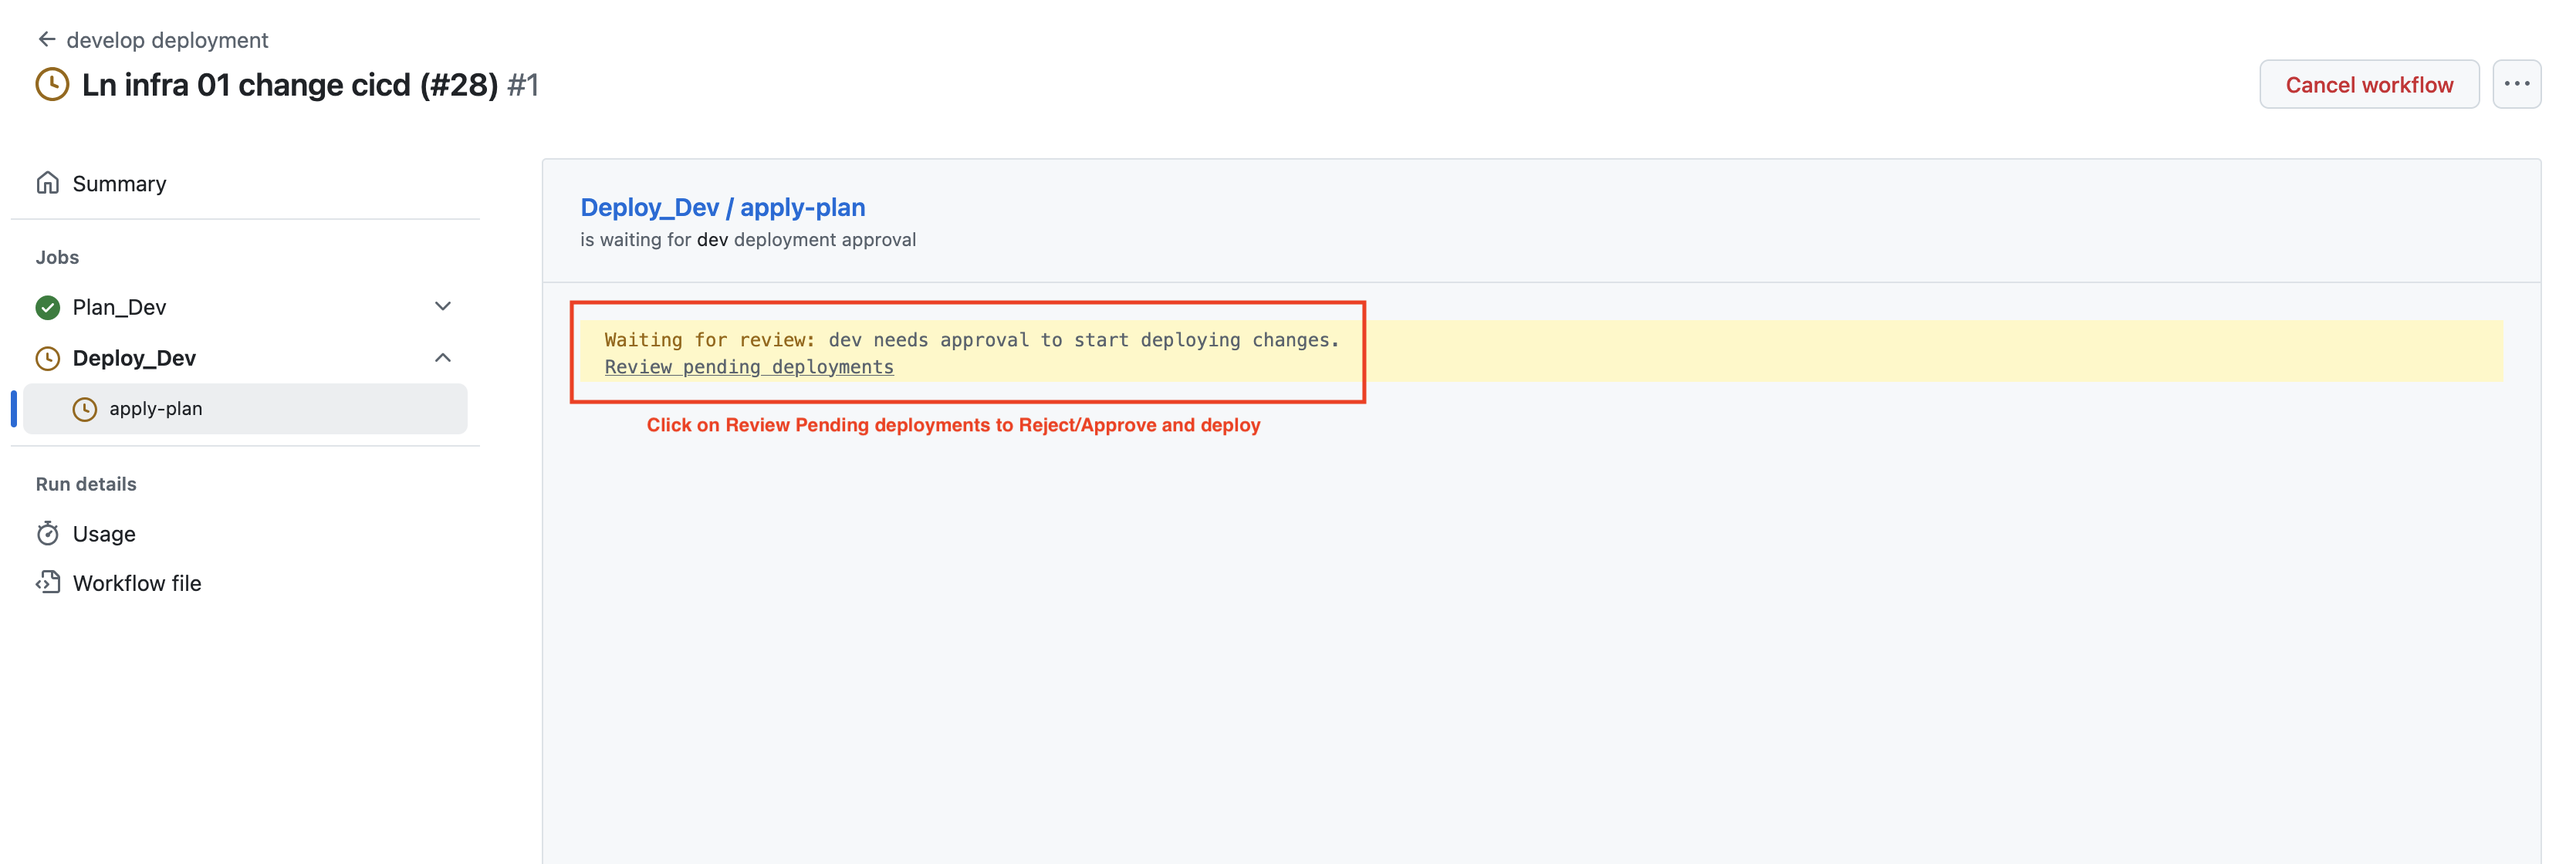
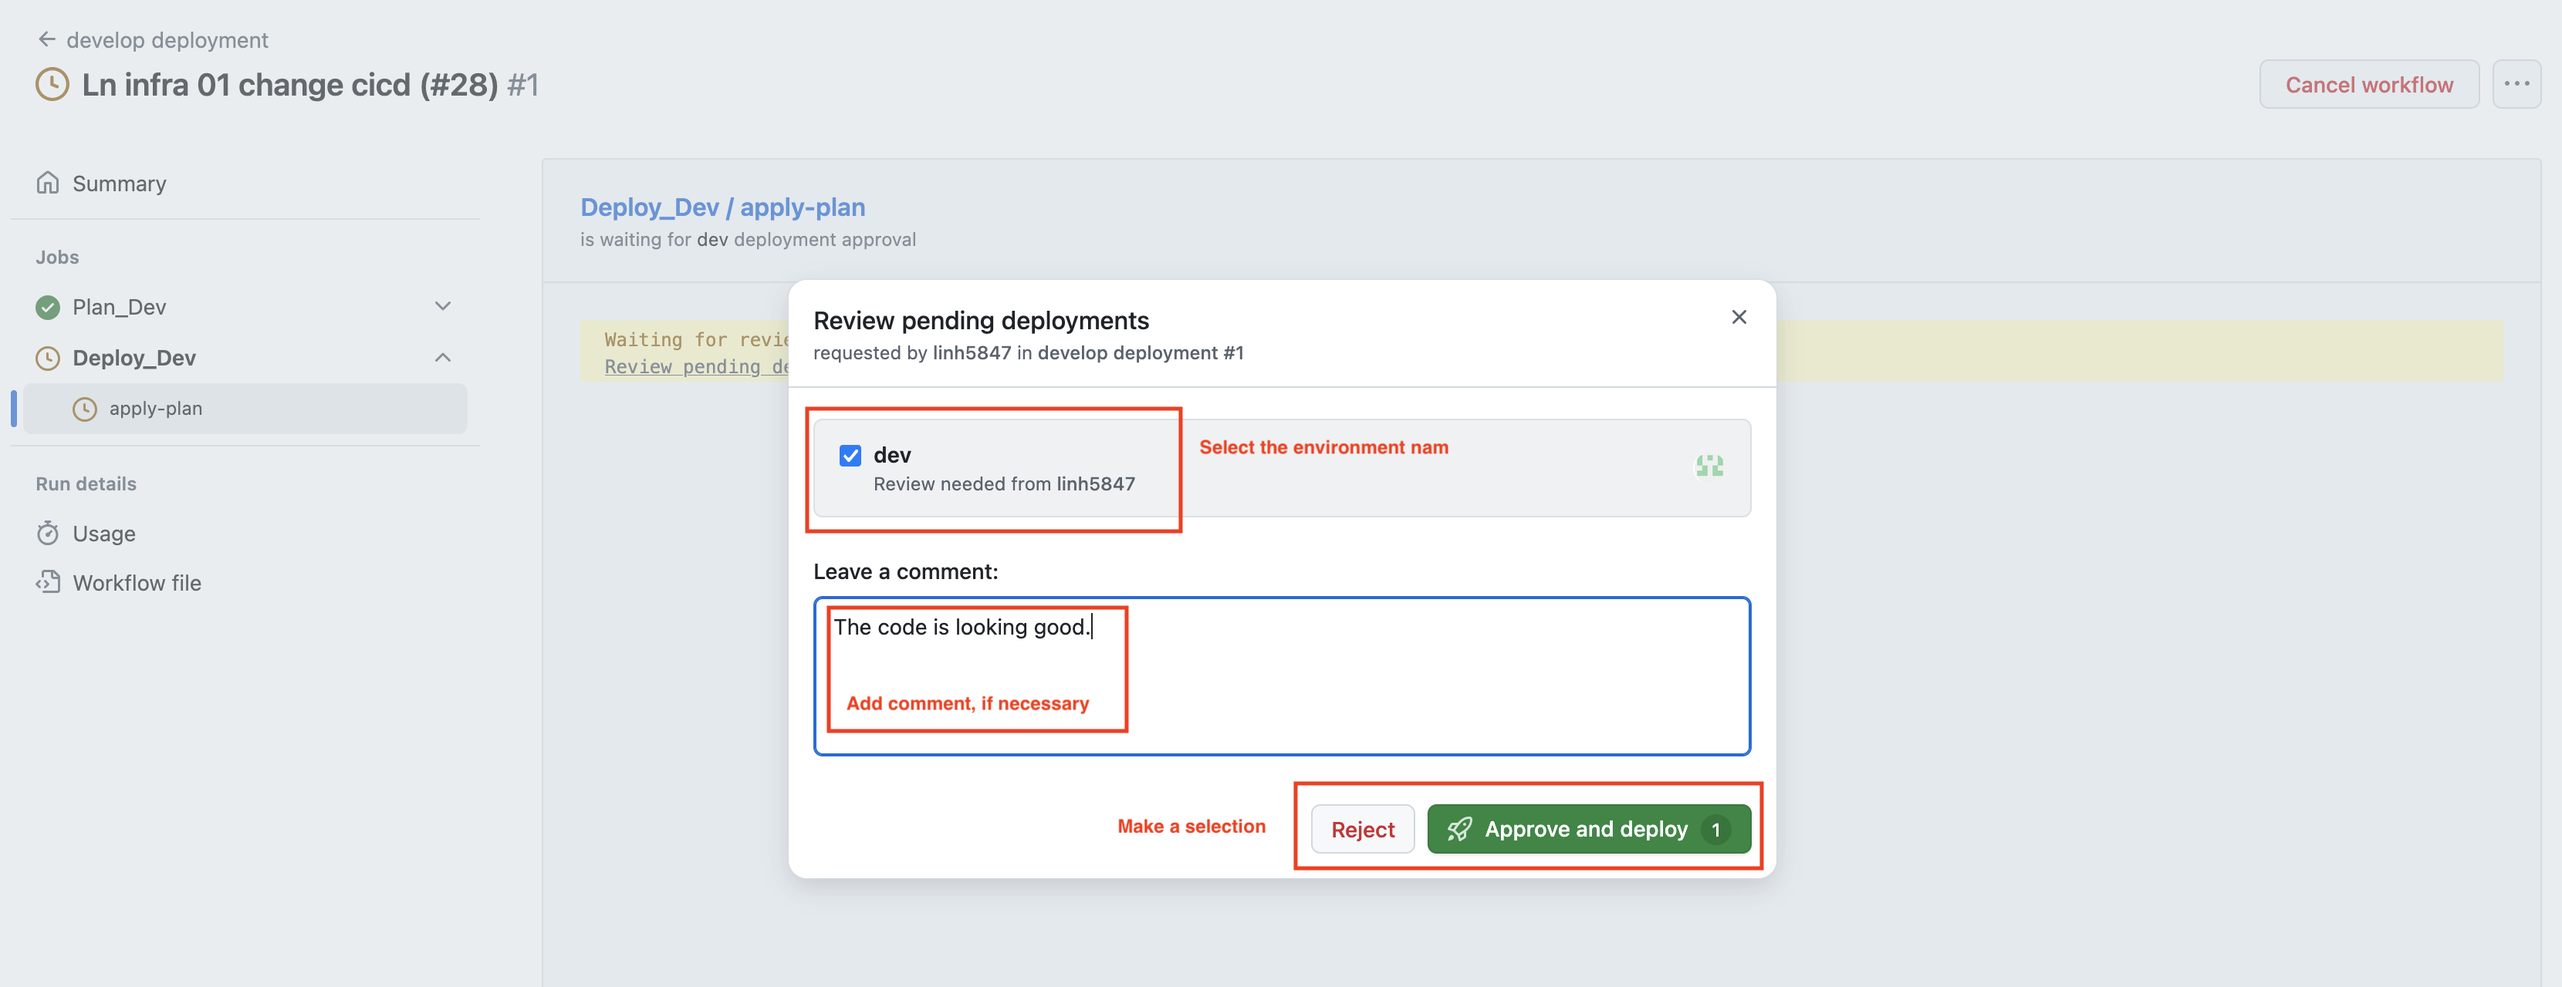
updating instruction file

diff --git a/INSTRUCTION.md b/INSTRUCTION.md
@@ -49,4 +49,8 @@ On the GitHub Action CI/CD screen. When you see the ie **Deploy_Dev/Plan_Dev** i
 
 The above image shows user to click on the deploy option for review with option which will lead to the next instruction
 
-<img title="Review deployment" alt="Alt text" src="/images/reject-or-approve.png">
+<img title="Review deployment" alt="Alt text" src="/images/review-pending-deployment.png">
+
+As soon as you click on the **Review pending deployment**. It will lead you to select **Reject** or **Approve for deployment**. In theory, the code has been reviewed and approved, as well as merge into the particular environment git branch ready to deploy. You will likely click on **Approve for deployment** unless the circumstance has changed at the last second before the button being click when pairing with a buddy or someone higher ranking. The **Reject** button will be selected and the deployment will get cancelled.
+
+<img title="Reject or Approve" alt="Alt text" src="/images/reject-or-approve.png">
